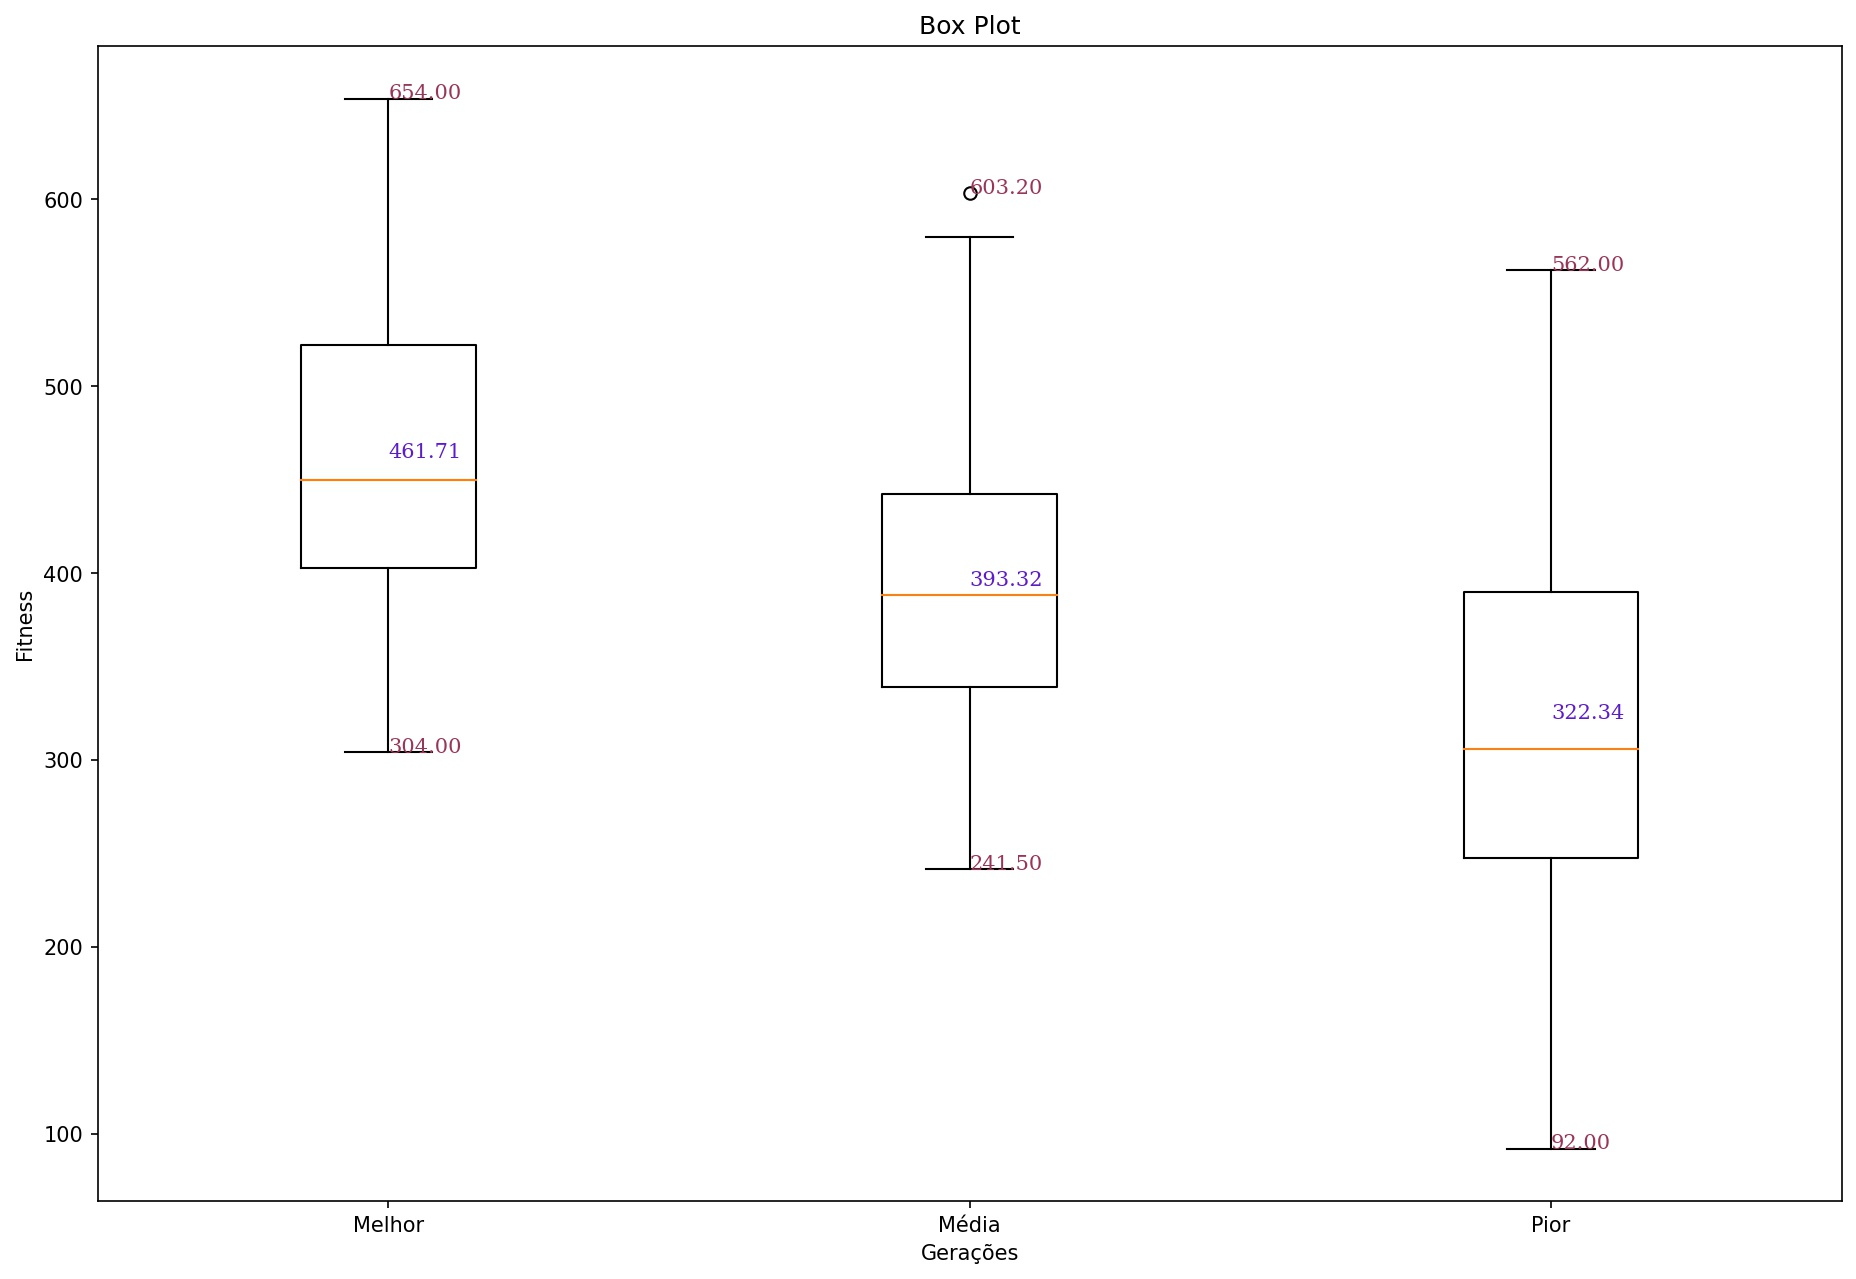
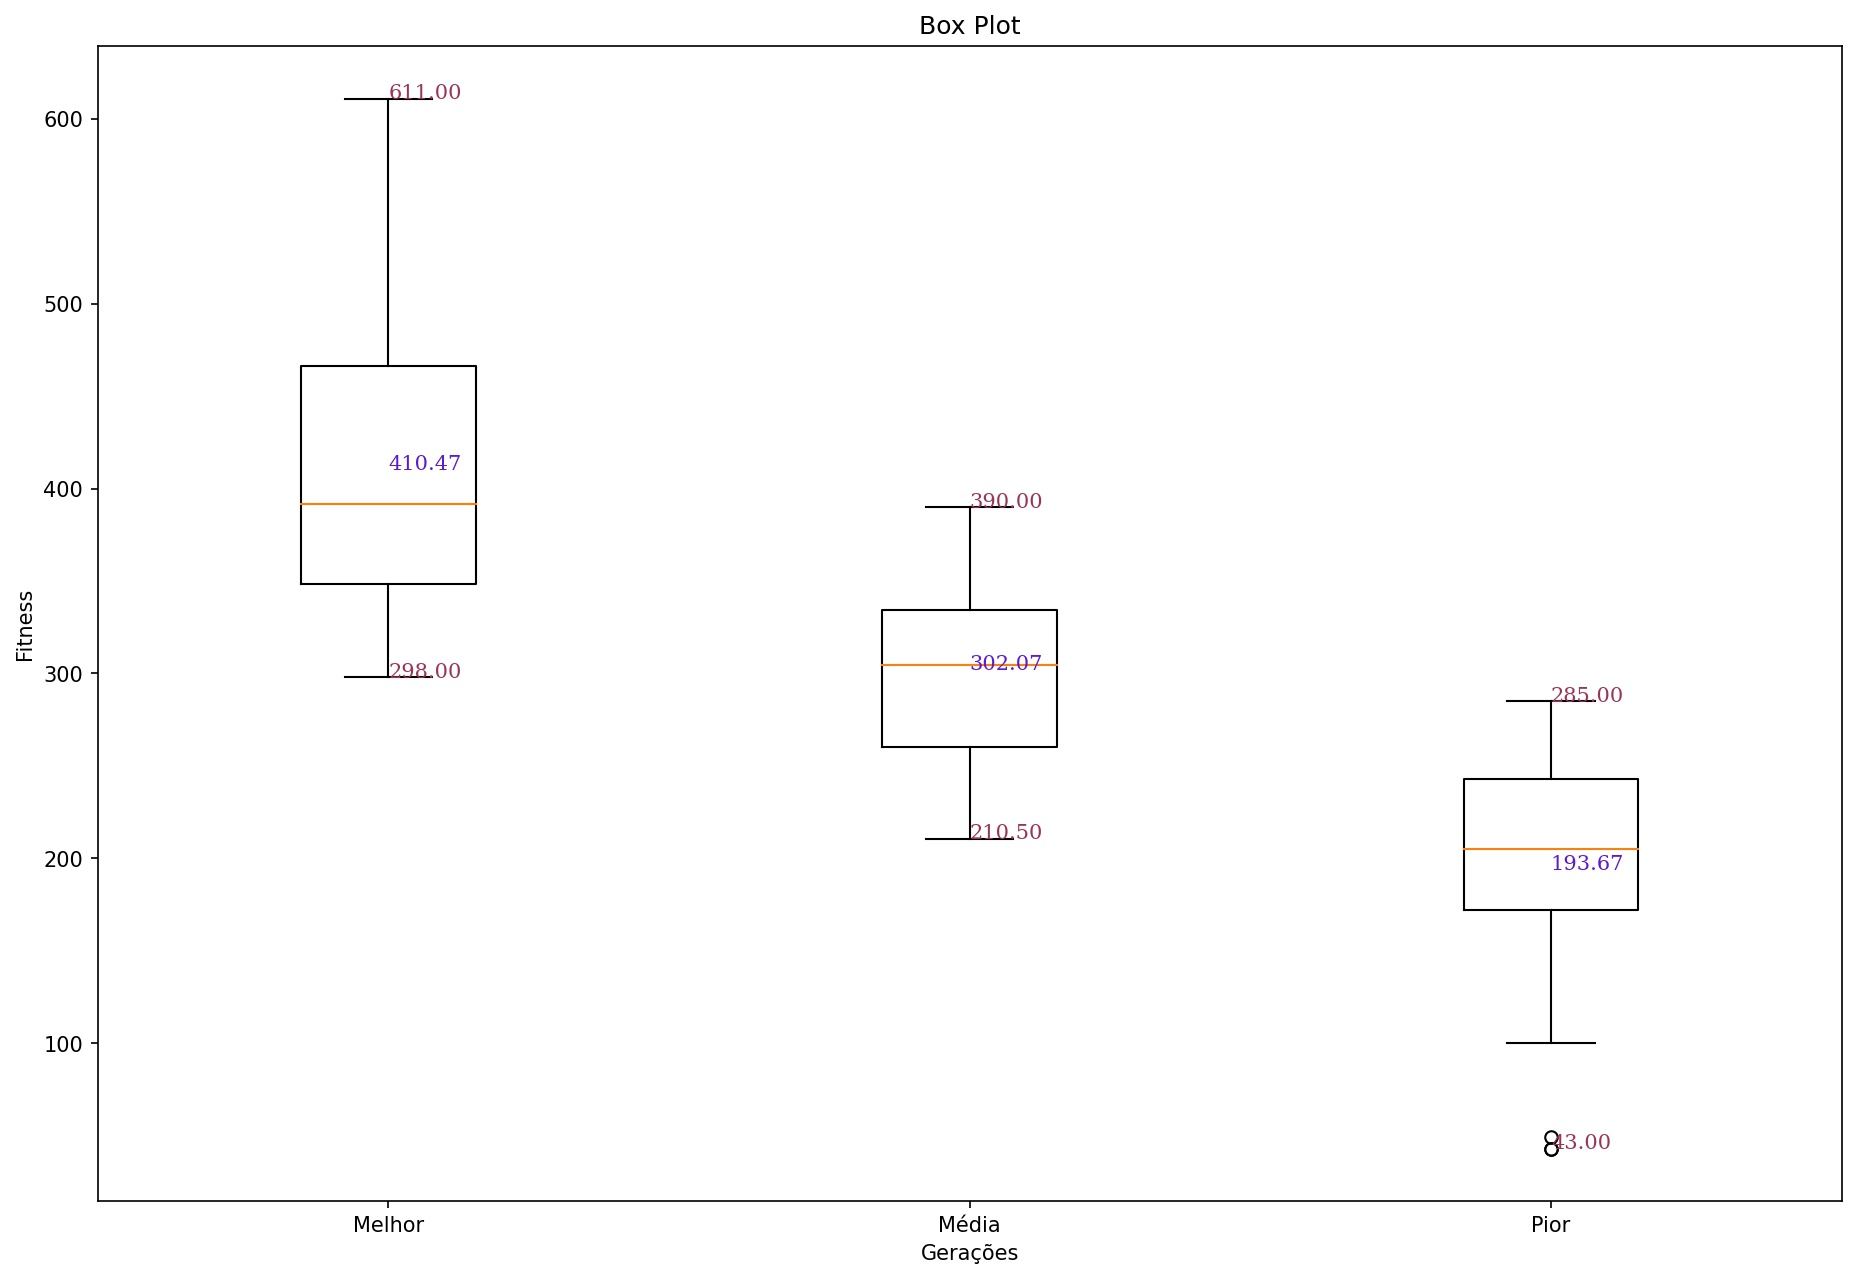
fix: Ajusta os gráficos

diff --git a/src/algorithm.py b/src/algorithm.py
@@ -6,7 +6,7 @@ class BinaryBackpack(ReaderConfig):
             self, 
             penality = 25, 
             population_size = 4, 
-            total_amount_valuations = 20, 
+            total_amount_valuations = 30, 
             percentage_performing_mutation = 3,
             dt_section = "one",
             dataset = None
@@ -22,7 +22,6 @@ class BinaryBackpack(ReaderConfig):
         self.total_amount_valuations = total_amount_valuations
         self.percentage_performing_mutation = percentage_performing_mutation
         self._dt_section = dt_section
-
         self.reset_params()
         
     def reset_params(self):
@@ -40,10 +39,6 @@ class BinaryBackpack(ReaderConfig):
             self._next_population.append([0] * self._solution_size)
 
         self._next_population.append([0] * self._solution_size)
-
-        self._best_fitness_generation = []
-        self._avg_fitness_generation = []
-        self._worst_fitness_generation = []
 
     def objective_function(self, solution):
         _fitness = 0
@@ -78,7 +73,7 @@ class BinaryBackpack(ReaderConfig):
         _index_best_solution = 0
         for i in range(self.population_size):
             if self._fitness[_index_best_solution] < self._fitness[i]:
-                _index_best_solution = i
+               _index_best_solution = i
         
         return _index_best_solution
 
@@ -118,14 +113,14 @@ class BinaryBackpack(ReaderConfig):
         del self._next_population[_worse]
         del self._fitness_next_population[_worse]
 
-        self._population = self._next_population
-        self._fitness = self._fitness_next_population
+        _population = self._next_population
+        _fitness = self._fitness_next_population
 
         self._next_population.append(self._next_population[0])
         self._fitness_next_population.append(self._fitness_next_population[0])
 
     def stop_criterion_reached(self, current_amount_valuations):
-        return self._current_amount_valuations >= self.total_amount_valuations
+        return current_amount_valuations >= self.total_amount_valuations
 
     def report_convergence_generation(self):
         self._best_fitness_generation.append(self._fitness[self.identify_better_solution()])
@@ -137,20 +132,17 @@ class BinaryBackpack(ReaderConfig):
 
         self._avg_fitness_generation.append(_avg/len(self._fitness))
 
-    def execute(self, repeat = 1, reset_gen = False):
+    def execute(self, repeat = 1):
         self._best_fitness = []
         self._avg_fitness = []
         self._worst_fitness = []
 
-        repeat = int(repeat)
+        self._best_fitness_generation = []
+        self._avg_fitness_generation = []
+        self._worst_fitness_generation = []
         _repeat_counter = 0
         while not _repeat_counter >= repeat:
-            if reset_gen:
-                self._best_fitness = []
-                self._avg_fitness = []
-                self._worst_fitness = []
 
-            self.reset_params()
             self.generate_initial_solution()
             self.evaluate_population()
 
@@ -170,12 +162,13 @@ class BinaryBackpack(ReaderConfig):
                 _counter += 1
             
             _best_solution = self.identify_better_solution()
-            print("Melhor individuo = ", self._population[_best_solution])
-            print("Fitness = ", self._fitness[_best_solution])
-            
-            self._best_fitness.extend(self._best_fitness_generation)
-            self._avg_fitness.extend(self._avg_fitness_generation)
-            self._worst_fitness.extend(self._worst_fitness_generation)
+            _worst_soluiton = self.identify_worst_solution_current_population()
+            _avg_solution = (self._fitness[_best_solution] + self._fitness[_worst_soluiton]) / 2
+
+            self._best_fitness.append(self._fitness[_best_solution])
+            self._avg_fitness.append(_avg_solution)
+            self._worst_fitness.append(self._fitness[_worst_soluiton])
 
             _repeat_counter += 1
-            
+
+        

diff --git a/src/plot.py b/src/plot.py
@@ -18,9 +18,9 @@ class BinaryBackpackPlot(BinaryBackpack):
         plt.xlabel("Geração")
         plt.ylabel("Fitness")
 
-        ax.plot(self._best_fitness, label="Melhor")
-        ax.plot(self._avg_fitness, label="Média")
-        ax.plot(self._worst_fitness, label="Pior")
+        ax.plot(self._best_fitness_generation, label="Melhor")
+        ax.plot(self._avg_fitness_generation, label="Média")
+        ax.plot(self._worst_fitness_generation, label="Pior")
         ax.grid(False)
         plt.savefig(f"output/plot_population_convergence_{self._dt_section}.jpg", bbox_inches='tight', dpi=150)
         plt.close() 
@@ -52,23 +52,7 @@ class BinaryBackpackPlot(BinaryBackpack):
         plt.savefig(f"output/plot_box_plot_{self._dt_section}.jpg", bbox_inches='tight', dpi=150)
         plt.close() 
 
-    def plot_error_bar(self):
-        arrys = [
-            ("best_fitness", self._best_fitness),
-            ("avg_fitness", self._avg_fitness),
-            ("worst_fitness", self._worst_fitness),
-        ]
-        for name, data in arrys:
-            x = np.array(data)
-            y = np.power(x, 2) # Effectively y = x**2
-            error = 0.1 + 0.2 * x
-            plt.errorbar(x, y, error, linestyle='None', marker='^')
-
-            plt.savefig(f"output/plot_{name}_error_bar_{self._dt_section}.jpg", bbox_inches='tight', dpi=150)
-            plt.close() 
-
     def execute(self, **kwargs):
         super().execute(**kwargs)
         self.plot_population_convergence()
         self.plot_box_plot()
-        self.plot_error_bar()

diff --git a/src/__main__.py b/src/__main__.py
@@ -9,14 +9,18 @@ if __name__ == "__main__":
         dataset = Dataset(
             description="", 
             capacity=7, 
-            weights_objects=[6, 3, 5, 1, 1, 2, 3, 5, 6, 8, 4, 3, 3, 2, 1], 
-            profits_objects=[5, 3, 2, 1, 4, 6, 3, 5, 1, 1, 2, 3, 5, 6, 8], 
+            weights_objects=[6,3,5,1,1,2,3,5,6,8,4, 3, 3, 2, 1], 
+            profits_objects=[5, 3, 2, 1, 4,6,3,5,1,1,2,3,5,6,8], 
             optimal_selection_weights=[0, 0, 0, 0, 0, 0, 0, 0, 0, 0, 0, 0, 0, 0, 0]
         )
         BinaryBackpackPlot(dataset=dataset).execute()
     elif sys.argv[1] == '-dt':
-        reset_gen = False
-        if len(sys.argv) >= 5:
-            reset_gen = True if sys.argv[4] == "--reset-gen" else False
+        dt_section = 'one'
+        if len(sys.argv) >= 3:
+            dt_section = sys.argv[2]
 
-        BinaryBackpackPlot(dt_section=sys.argv[2]).execute(repeat=sys.argv[3], reset_gen=reset_gen)
+        repeat = 1
+        if len(sys.argv) >= 4:
+            repeat = int(sys.argv[3])       
+
+        BinaryBackpackPlot(dt_section=dt_section).execute(repeat=repeat)
